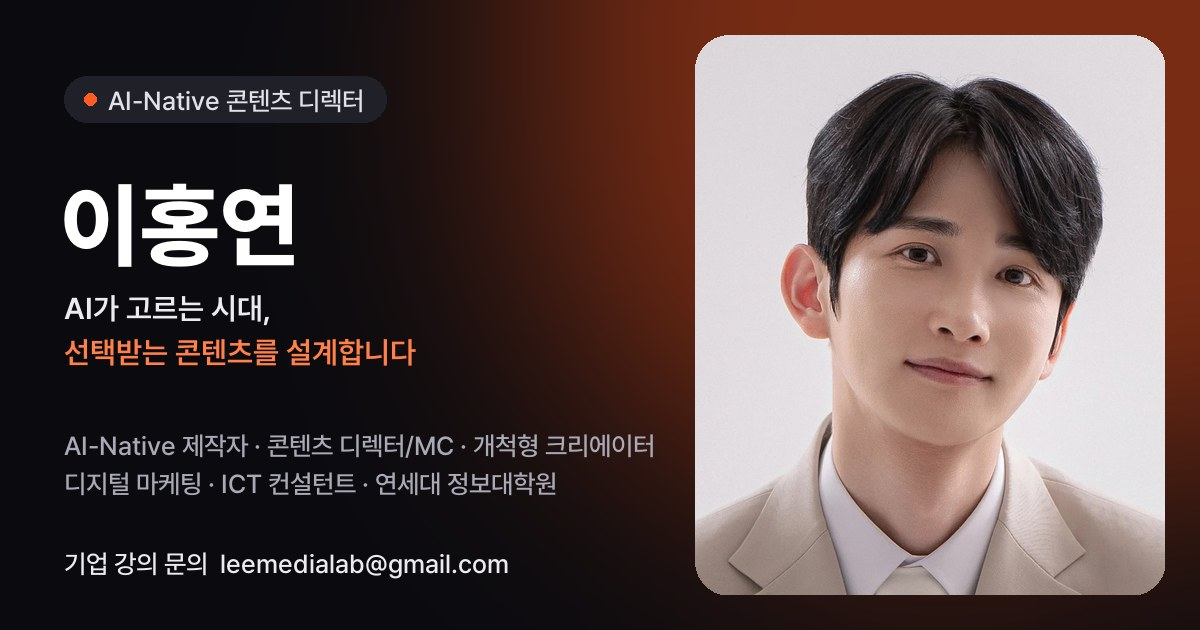
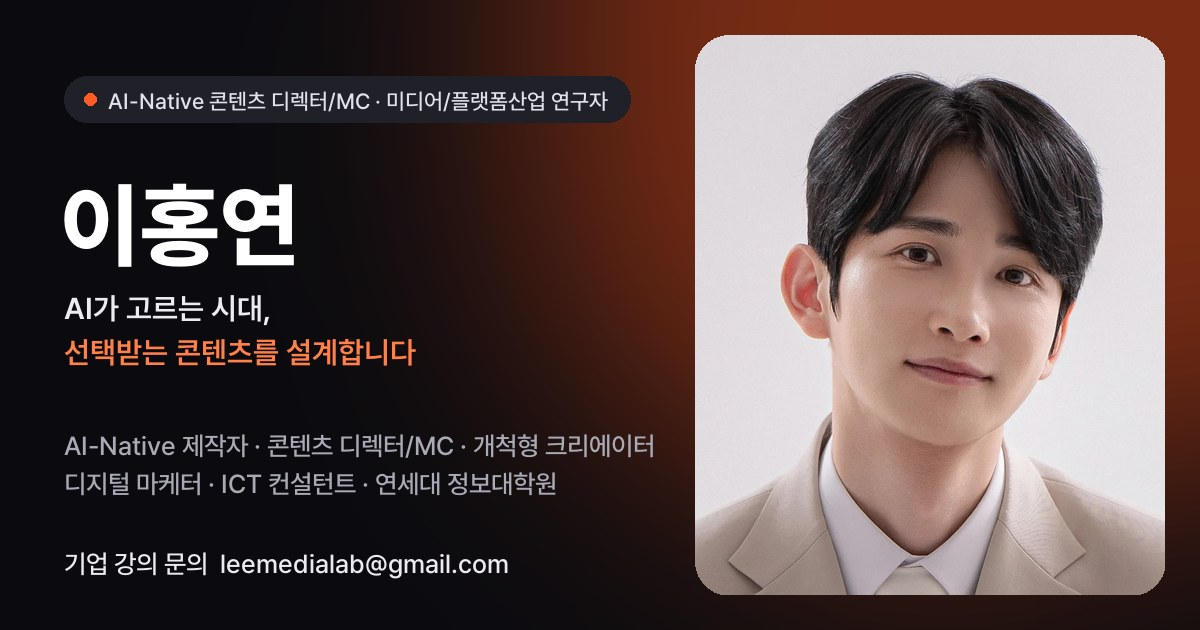
메뉴명 '디지털 마케팅' → '디지털 마케터'(메뉴·화면 제목·라벨·홈 연혁·하단 메뉴), 공유 이미지에 새 직함·메뉴명 반영

Changed region(s): [[0.0925, 0.1206, 0.5242, 0.2111], [0.1542, 0.754, 0.185, 0.7841]]

diff --git a/index.html b/index.html
@@ -5,7 +5,7 @@
 <meta name="viewport" content="width=device-width, initial-scale=1, viewport-fit=cover">
 <title>이홍연 강사 프로필</title>
 <meta name="claude:viewport-fit-sides" content="cover">
-<meta name="description" content="AI-Native 콘텐츠 디렉터/MC 이홍연의 기업 강의 프로필. AI-Native 제작자, 콘텐츠 디렉터/MC, 개척형 크리에이터, 디지털 마케팅, ICT 컨설턴트, 연세대 정보대학원, 강의 콘텐츠.">
+<meta name="description" content="AI-Native 콘텐츠 디렉터/MC 이홍연의 기업 강의 프로필. AI-Native 제작자, 콘텐츠 디렉터/MC, 개척형 크리에이터, 디지털 마케터, ICT 컨설턴트, 연세대 정보대학원, 강의 콘텐츠.">
 <link rel="canonical" href="https://leemedialab.github.io/">
 <link rel="icon" href="assets/img/favicon.png" type="image/png" sizes="64x64">
 <link rel="apple-touch-icon" href="assets/img/apple-touch-icon.png">
@@ -14,7 +14,7 @@
 <meta property="og:url" content="https://leemedialab.github.io/">
 <meta property="og:title" content="이홍연 | AI-Native 콘텐츠 디렉터/MC · 기업 강사">
 <meta property="og:description" content="AI가 고르는 시대, 선택받는 콘텐츠를 설계합니다. GEO·AI 검색, AI Native 콘텐츠 제작, 유튜브·숏폼 기획, 미디어·플랫폼 비즈니스 강의.">
-<meta property="og:image" content="https://leemedialab.github.io/assets/img/og.jpg">
+<meta property="og:image" content="https://leemedialab.github.io/assets/img/og.jpg?v=20261025">
 <meta property="og:image:width" content="1200">
 <meta property="og:image:height" content="630">
 <meta property="og:locale" content="ko_KR">
@@ -1320,7 +1320,7 @@ h1[tabindex="-1"]:focus{outline:none}
           <li><a href="#chainshift">AI-Native 제작자</a></li>
           <li><a href="#pd">콘텐츠 디렉터/MC</a></li>
           <li><a href="#yodel">개척형 크리에이터</a></li>
-          <li><a href="#marketing">디지털 마케팅</a></li>
+          <li><a href="#marketing">디지털 마케터</a></li>
           <li><a href="#ict">ICT 컨설턴트</a></li>
           <li><a href="#yonsei">연세대 정보대학원</a></li>
           <li class="menu__sep" aria-hidden="true"></li>
@@ -1482,7 +1482,7 @@ h1[tabindex="-1"]:focus{outline:none}
         <a class="tl__row" href="#ict"><span class="tl__who"><i>01</i><b>ICT 컨설턴트<small>SK브로드밴드 B2B</small></b></span><span class="tl__lane"><span class="tl__bar" style="--s:9.091%;--e:45.455%">2017.01 – 2020.12</span><span class="tl__now" style="--n:98.485%"></span></span></a>
         <a class="tl__row" href="#yodel"><span class="tl__who"><i>02</i><b>개척형 크리에이터<small>요들랜드 TV · 관심사원 · 미디어LAB</small></b></span><span class="tl__lane"><span class="tl__bar tl__bar--short" title="2019 시즌 1" style="--s:28.788%;--e:37.121%">2019 S1</span><span class="tl__bar tl__bar--now" data-t="2026.06 S2" style="--s:94.697%;--e:98.485%"></span><span class="tl__now" style="--n:98.485%"></span></span></a>
         <a class="tl__row" href="#pd"><span class="tl__who"><i>03</i><b>콘텐츠 디렉터/MC<small>B tv 이동진의 파이아키아</small></b></span><span class="tl__lane"><span class="tl__bar" style="--s:41.667%;--e:78.030%">2020.08 – 2024.07</span><span class="tl__now" style="--n:98.485%"></span></span></a>
-        <a class="tl__row" href="#marketing"><span class="tl__who"><i>04</i><b>디지털 마케팅<small>디지털Comm. · AX마케팅</small></b></span><span class="tl__lane"><span class="tl__bar" style="--s:45.455%;--e:83.333%">2021.01 – 2025.02</span><span class="tl__now" style="--n:98.485%"></span></span></a>
+        <a class="tl__row" href="#marketing"><span class="tl__who"><i>04</i><b>디지털 마케터<small>디지털Comm. · AX마케팅</small></b></span><span class="tl__lane"><span class="tl__bar" style="--s:45.455%;--e:83.333%">2021.01 – 2025.02</span><span class="tl__now" style="--n:98.485%"></span></span></a>
         <a class="tl__row" href="#yonsei"><span class="tl__who"><i>05</i><b>연세대 정보대학원<small>콘텐츠·플랫폼 비즈니스</small></b></span><span class="tl__lane"><span class="tl__bar tl__bar--now tl__bar--short" title="2025.09 –" style="--s:87.879%;--e:98.485%">2025.09 –</span><span class="tl__now" style="--n:98.485%"></span></span></a>
         <a class="tl__row" href="#chainshift"><span class="tl__who"><i>06</i><b>AI-Native 제작자<small>체인시프트 AI 콘텐츠 디렉터</small></b></span><span class="tl__lane"><span class="tl__bar tl__bar--now" data-t="2026 –" style="--s:96.5%;--e:98.485%"></span><span class="tl__now" style="--n:98.485%"></span></span></a>
         <p class="tl__note">막대 길이는 실제 기간 비율입니다. 점선은 현재(2026년 10월).</p>
@@ -2066,9 +2066,9 @@ h1[tabindex="-1"]:focus{outline:none}
 </div>
 
 <!-- =================================================================== CH04 MARKETING -->
-<div class="view" id="marketing" data-label="디지털 마케팅">
+<div class="view" id="marketing" data-label="디지털 마케터">
   <section class="wrap phero" aria-labelledby="mkt-title">
-    <div class="crumb"><b>CAREER 04</b><span>디지털 마케팅</span></div>
+    <div class="crumb"><b>CAREER 04</b><span>디지털 마케터</span></div>
     <h1 class="h-1" id="mkt-title">광고비 0원, 인하우스 제작.<br><span class="grad">직원이 만든 콘텐츠</span>로 브랜드를 알렸습니다</h1>
     <p class="lead">직접 운영하던 유튜브 채널의 성과를 인정받아 영업팀에서 마케팅 조직으로 옮겼습니다. 구성원이 기획·촬영·출연·편집까지 맡는 임플로이언서(Employeencer) 방식으로 틱톡 채널, 라이브커머스, 중간광고, 상품 런칭 콘텐츠를 만들었습니다.</p>
     <div class="meta"><span class="chip">SK브로드밴드 디지털Comm.팀 → AX마케팅팀</span><span class="chip">디지털 마케팅 매니저</span><span class="chip num">2021.01 – 2025.02</span></div>
@@ -2581,7 +2581,7 @@ h1[tabindex="-1"]:focus{outline:none}
     </div>
     <nav aria-label="하단 메뉴">
       <a href="#chainshift">AI-Native 제작자</a><a href="#pd">콘텐츠 디렉터/MC</a><a href="#yodel">개척형 크리에이터</a>
-      <a href="#marketing">디지털 마케팅</a><a href="#ict">ICT 컨설턴트</a><a href="#yonsei">연세대 정보대학원</a>
+      <a href="#marketing">디지털 마케터</a><a href="#ict">ICT 컨설턴트</a><a href="#yonsei">연세대 정보대학원</a>
       <a href="#lectures">강의 콘텐츠</a><a href="#contact">강의 문의</a>
     </nav>
     <div class="foot__contact"><a class="foot__mail" href="tel:01073681377">010-7368-1377</a><a class="foot__mail" href="mailto:leemedialab@gmail.com">leemedialab@gmail.com</a><a class="btn btn--sm btn--accent" href="#contact" style="margin-top:6px">강의 문의하기</a></div>
